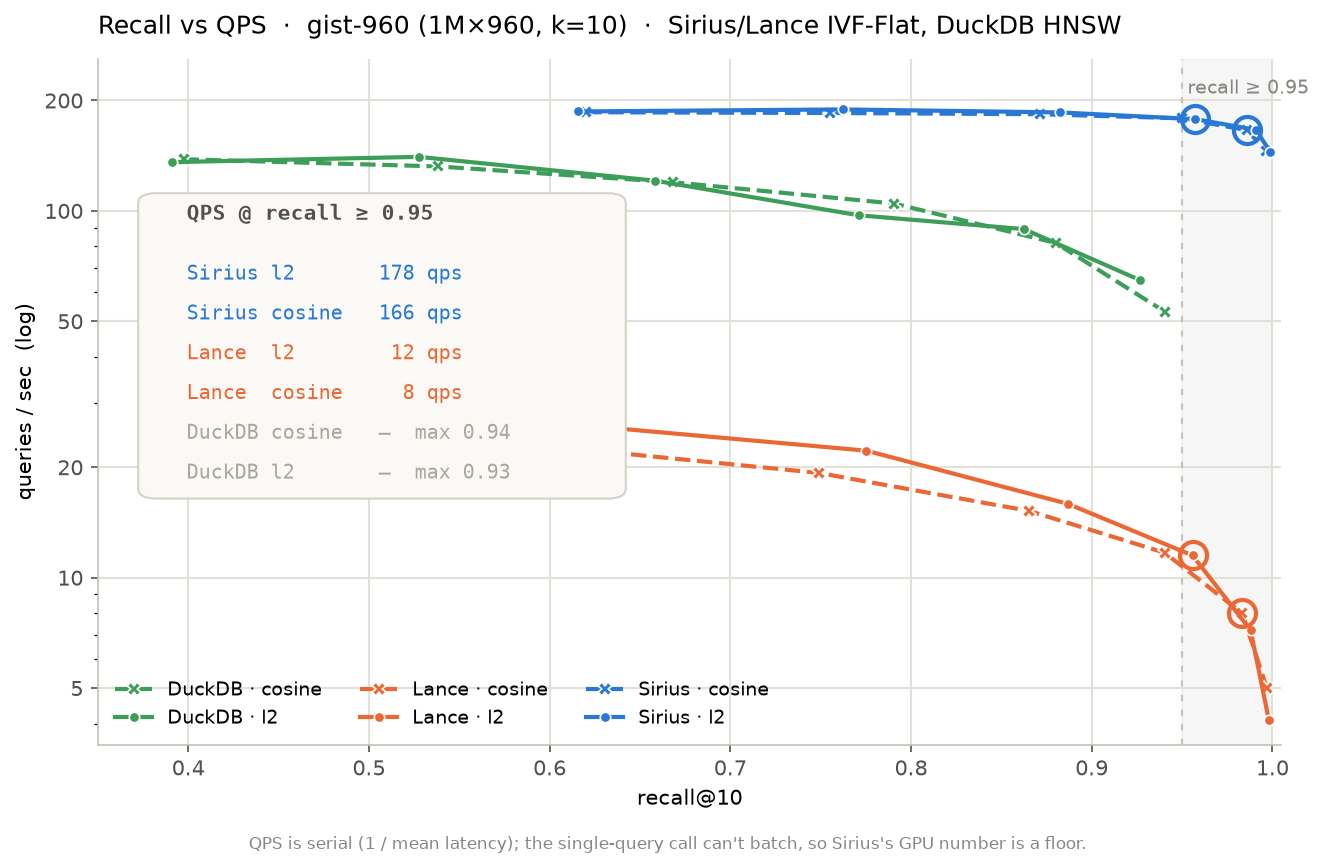
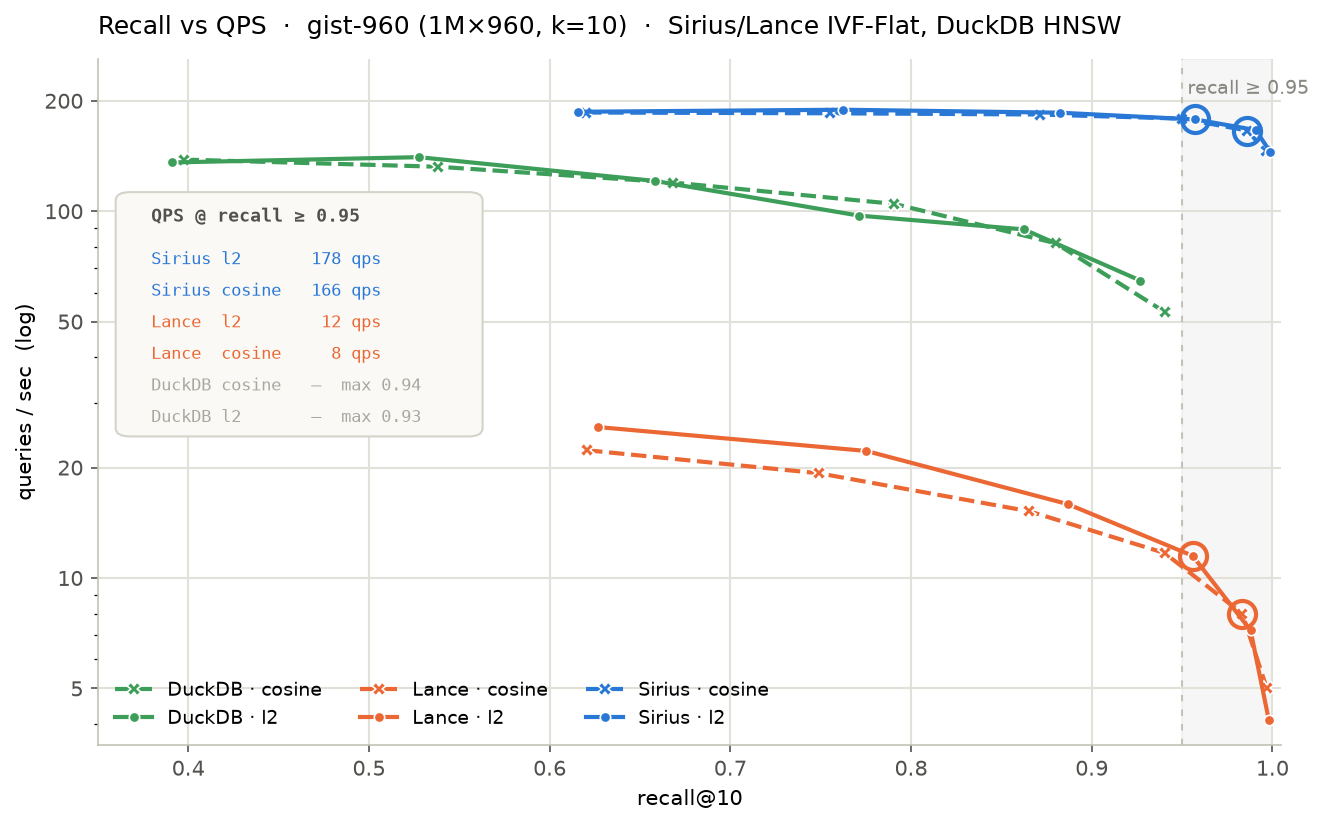
fix wording and plot

diff --git a/bench/vss/plot_recall_qps.py b/bench/vss/plot_recall_qps.py
@@ -90,29 +90,29 @@ def main():
     if crossings:
         rows = sorted(crossings, key=lambda c: -c[4])  # fastest first
         missed_rows = sorted(missed, key=lambda m: -m[2])
-        x0, ytop, dy = 0.075, 0.70, 0.058
+        x0, ytop, dy = 0.045, 0.72, 0.046
         n = len(rows) + len(missed_rows)
         panel = FancyBboxPatch(
-            (x0 - 0.035, ytop - (n - 1) * dy - 0.045), 0.40, n * dy + 0.085,
-            boxstyle="round,pad=0.006,rounding_size=0.015",
+            (x0 - 0.025, ytop - (n - 1) * dy - 0.035), 0.30, n * dy + 0.07,
+            boxstyle="round,pad=0.005,rounding_size=0.012",
             transform=ax.transAxes, facecolor="#faf9f5", edgecolor="#d4d3ca",
             lw=1, zorder=3.4)
         ax.add_patch(panel)
-        ax.text(x0, ytop + dy, f"QPS @ recall ≥ {args.target:g}",
-                transform=ax.transAxes, fontsize=10, fontweight="bold",
+        ax.text(x0, ytop + dy * 0.8, f"QPS @ recall ≥ {args.target:g}",
+                transform=ax.transAxes, fontsize=8.5, fontweight="bold",
                 color="#52514e", va="bottom", ha="left", family="monospace",
                 zorder=4)
         i = 0
         for engine, metric, np_, r, q in rows:
             ax.text(x0, ytop - i * dy,
                     f"{LABEL[engine]:6s} {metric:6s} {q:5.0f} qps",
-                    transform=ax.transAxes, fontsize=9.5, color=COLOR[engine],
+                    transform=ax.transAxes, fontsize=8, color=COLOR[engine],
                     va="top", ha="left", family="monospace", zorder=4)
             i += 1
         for engine, metric, best in missed_rows:
             ax.text(x0, ytop - i * dy,
                     f"{LABEL[engine]:6s} {metric:6s}   —  max {best:.2f}",
-                    transform=ax.transAxes, fontsize=9.5, color="#a9a89f",
+                    transform=ax.transAxes, fontsize=8, color="#a9a89f",
                     va="top", ha="left", family="monospace", zorder=4)
             i += 1
 
@@ -137,10 +137,6 @@ def main():
         ax.spines[s].set_color("#c3c2b7")
     ax.tick_params(colors="#52514e")
     ax.legend(frameon=False, fontsize=9, loc="lower left", ncol=3)
-
-    fig.text(0.5, -0.02,
-             "QPS is serial (1 / mean latency); the single-query call can't batch, so Sirius's GPU number is a floor.",
-             ha="center", fontsize=8, color="#898781")
 
     fig.tight_layout()
     fig.savefig(args.out, bbox_inches="tight", facecolor="white")

diff --git a/bench/vss/result.md b/bench/vss/result.md
@@ -139,7 +139,7 @@ Note:
 | duckdb | cosine |  —       |    —   |   —   |
 
 Note on DuckDB:
-- GIST at 960 dimensions is known to be hard for graph indexes, so this is expected for DuckDB HNSW.
+- GIST at 960 dimensions is known to be hard for graph indexes, so lower recall is expected for DuckDB HNSW.
 
 Note on Lance:
 - Note: Lance doesn't have cosine metric, so every Lance cosine run uses a unit-normalized dataset with an L2 index and a unit-normalized query.
